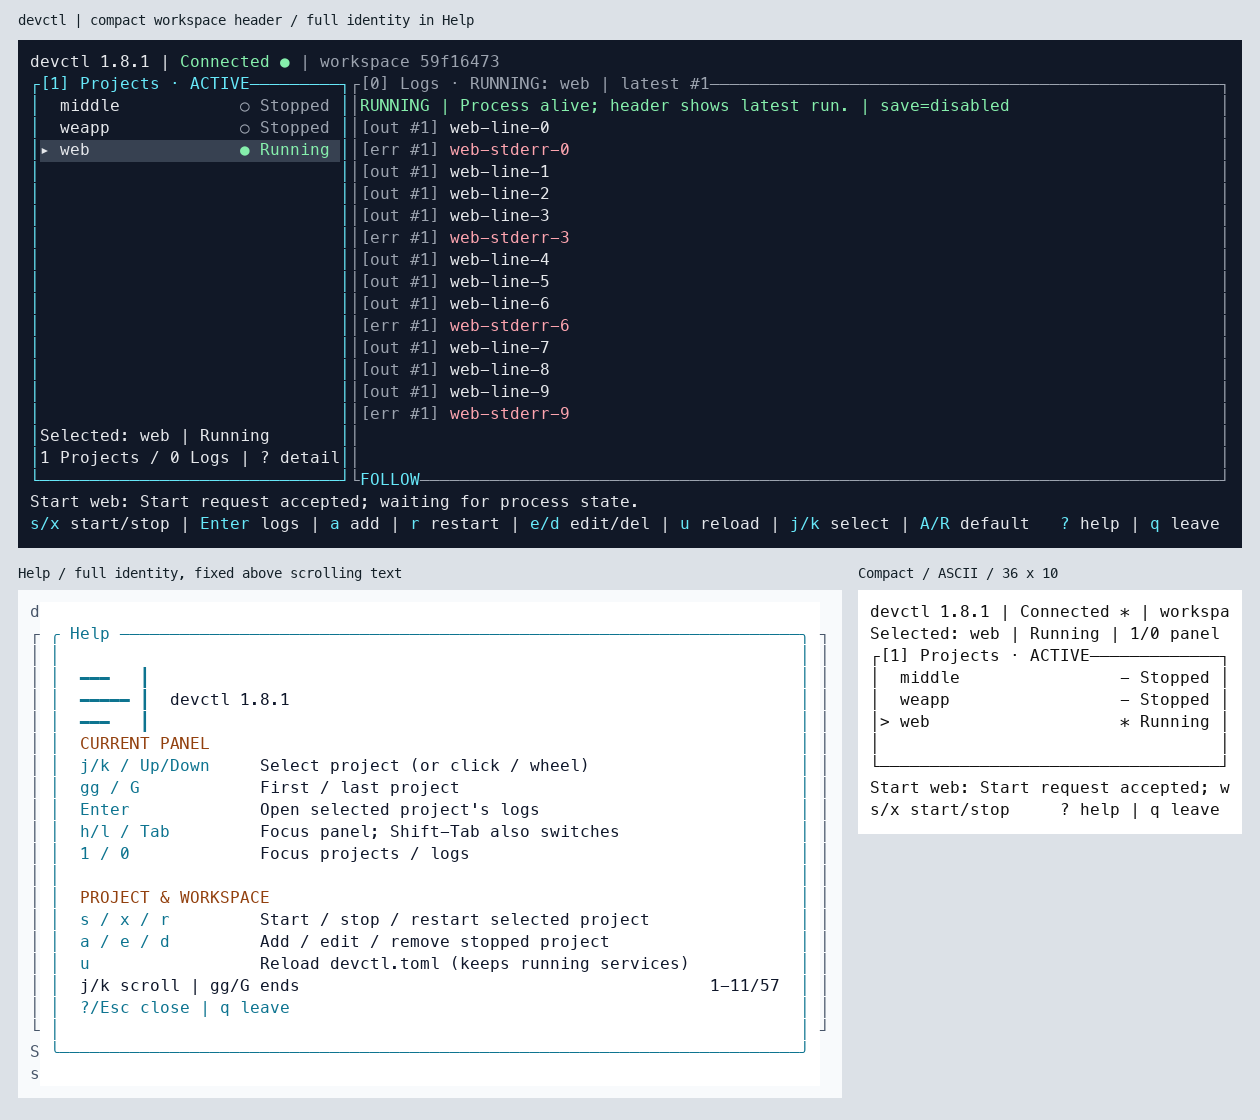
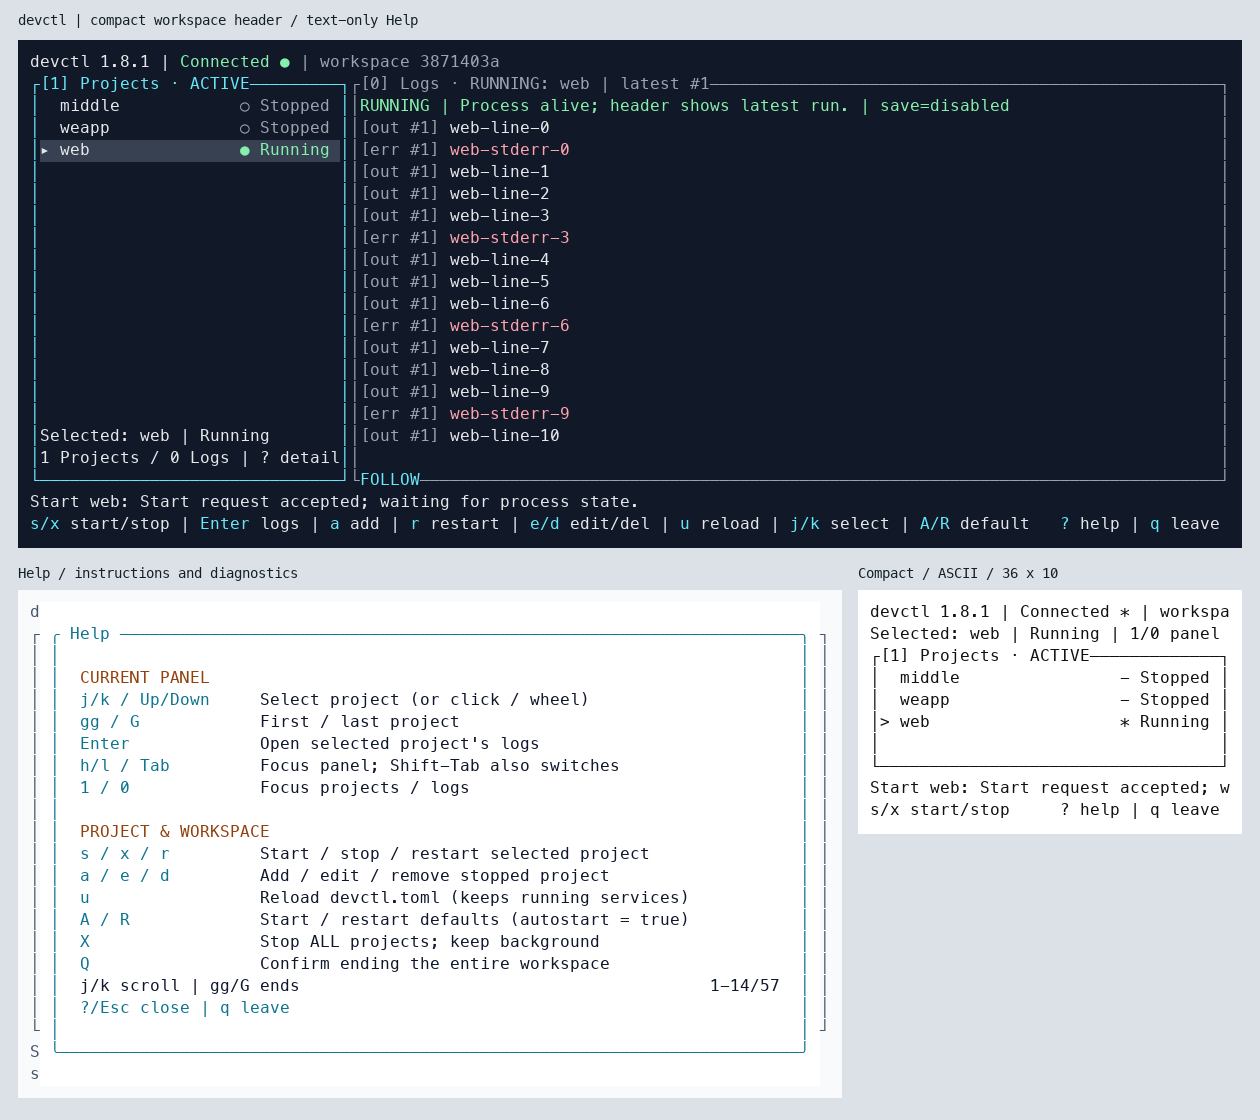
refactor(tui): keep graphical branding outside terminal interface

diff --git a/src/tui/view.rs b/src/tui/view.rs
@@ -7,10 +7,7 @@ use ratatui::{
 };
 use unicode_segmentation::UnicodeSegmentation;
 
-use super::{
-    app::{App, Focus, TextCell, TextPosition},
-    brand,
-};
+use super::app::{App, Focus, TextCell, TextPosition};
 use crate::{
     logs::{Record, Source},
     manager::ServiceState,
@@ -1437,38 +1434,22 @@ fn help_area(area: Rect, app: &App) -> Rect {
     let width = area.width.saturating_sub(4).min(80);
     let inner = help_block().inner(Rect::new(0, 0, width, area.height));
     let rows = wrapped(help_lines(app), inner.width).len();
-    // Borders, padding and footer occupy six rows; allow room for the full mark.
-    let height = rows
-        .saturating_add(6 + usize::from(brand::HEIGHT))
-        .min(usize::from(u16::MAX)) as u16;
+    // Borders, vertical padding and the two fixed footer rows occupy six rows.
+    let height = rows.saturating_add(6).min(usize::from(u16::MAX)) as u16;
     popup(area, width, height.min(area.height.saturating_sub(2)))
 }
 
-fn help_sections(inner: Rect) -> [Rect; 3] {
-    // The optional identity must leave room for readable help and its footer.
-    // Never reserve brand rows in the everyday project/log workspace.
-    let brand_height = if inner.width >= brand::WIDTH && inner.height >= 8 {
-        brand::HEIGHT
-    } else {
-        0
-    };
-    Layout::vertical([
-        Constraint::Length(brand_height),
-        Constraint::Min(0),
-        Constraint::Length(2),
-    ])
-    .areas(inner)
-}
-
 pub fn help_height(area: Rect, app: &App) -> u16 {
-    help_sections(help_block().inner(help_area(area, app)))[1]
+    help_block()
+        .inner(help_area(area, app))
         .height
+        .saturating_sub(2)
         .max(1)
 }
 
 pub fn help_max_scroll(area: Rect, app: &App) -> u16 {
     let inner = help_block().inner(help_area(area, app));
-    let height = usize::from(help_sections(inner)[1].height);
+    let height = usize::from(inner.height.saturating_sub(2));
     let count = wrapped(help_lines(app), inner.width).len();
     count.saturating_sub(height).min(usize::from(u16::MAX)) as u16
 }
@@ -1597,20 +1578,8 @@ fn overlay(frame: &mut Frame, app: &App) {
         let block = help_block();
         let inner = block.inner(area);
         frame.render_widget(block, area);
-        let [identity, body, footer] = help_sections(inner);
-        brand::render(frame, identity, app.appearance.ascii);
-        if identity.height > 0 {
-            frame.render_widget(
-                Paragraph::new(format!("devctl {}", env!("CARGO_PKG_VERSION")))
-                    .style(modal_style().add_modifier(Modifier::BOLD)),
-                Rect::new(
-                    identity.x + brand::WIDTH + 2,
-                    identity.y + 1,
-                    identity.width.saturating_sub(brand::WIDTH + 2),
-                    1,
-                ),
-            );
-        }
+        let [body, footer] =
+            Layout::vertical([Constraint::Min(0), Constraint::Length(2)]).areas(inner);
         let max = help_max_scroll(frame.area(), app);
         let scroll = app.help_scroll.min(max);
         let lines = wrapped(help_lines(app), body.width);
@@ -2002,7 +1971,7 @@ mod tests {
     }
 
     #[test]
-    fn full_brand_in_help_keeps_the_workspace_header_compact() {
+    fn text_only_workspace_and_help_preserve_compact_layout_and_navigation() {
         use super::super::appearance::Theme;
 
         for ascii in [false, true] {
@@ -2019,31 +1988,16 @@ mod tests {
                         app.help = false;
                         let text = draw(&app, width, height);
                         assert!(text.starts_with(concat!("devctl ", env!("CARGO_PKG_VERSION"))));
-                        assert!(!text.contains(brand::rows(ascii)[1]));
                         app.help = true;
-                        let inner = help_block().inner(help_area(area, &app));
-                        let [identity, _, _] = help_sections(inner);
                         for scroll in [0, help_max_scroll(area, &app)] {
                             app.help_scroll = scroll;
                             let text = draw(&app, width, height);
-                            for (offset, stroke) in brand::rows(ascii).into_iter().enumerate() {
-                                if identity.height > 0 {
-                                    assert_eq!(
-                                        text.chars()
-                                            .skip(
-                                                (usize::from(identity.y) + offset)
-                                                    * usize::from(width)
-                                                    + usize::from(identity.x),
-                                            )
-                                            .take(usize::from(brand::WIDTH))
-                                            .collect::<String>(),
-                                        stroke
-                                    );
-                                } else {
-                                    assert!(!text.contains(stroke), "{text}");
-                                }
-                            }
+                            assert!(!text.contains('━') && !text.contains('┃'));
+                            assert!(!text.contains("----- |"));
                             assert!(text.contains("?/Esc close | q leave"));
+                            if scroll == 0 {
+                                assert!(text.contains("CURRENT PANEL"));
+                            }
                         }
                     }
                 }
@@ -2080,19 +2034,19 @@ mod tests {
         let mut app = App::new();
         app.help = true;
         app.feedback = "HELP-TAIL".into();
-        let large = Rect::new(7, 3, 300, 80);
+        let large = Rect::new(7, 3, 300, 64);
         let popup = help_area(large, &app);
         assert_eq!(popup.width, 80);
         let inner_width = help_block().inner(popup).width;
         assert_eq!(
             usize::from(popup.height),
-            wrapped(help_lines(&app), inner_width).len() + 6 + usize::from(brand::HEIGHT)
+            wrapped(help_lines(&app), inner_width).len() + 6
         );
         assert!(popup.height < large.height - 2);
         assert_eq!(popup.x, large.x + (large.width - popup.width) / 2);
         assert_eq!(popup.y, large.y + (large.height - popup.height) / 2);
         assert_eq!(help_max_scroll(large, &app), 0);
-        let text = draw(&app, 300, 80);
+        let text = draw(&app, 300, 64);
         assert!(text.contains("CURRENT PANEL") && text.contains("HELP-TAIL"));
 
         for (width, height) in [(120, 30), (80, 12), (60, 16), (36, 10)] {
@@ -2106,7 +2060,7 @@ mod tests {
             assert!(text.contains("?/Esc close | q leave"));
         }
         // A stale scroll position must not hide content after enlarging the window.
-        let text = draw(&app, 300, 80);
+        let text = draw(&app, 300, 64);
         assert!(text.contains("CURRENT PANEL") && text.contains("HELP-TAIL"));
     }
 

diff --git a/tests/support/tui_pty.py b/tests/support/tui_pty.py
@@ -531,7 +531,6 @@ def appearance():
             if theme == 'mono':
                 options.update(NO_COLOR='1', DEVCTL_TUI_ASCII='1', DEVCTL_TUI_REDUCED_MOTION='1')
             ui = Tui(w, appearance=options)
-            mark = ['---   |', '----- |', '---   |'] if theme == 'mono' else ['━━━   ┃', '━━━━━ ┃', '━━━   ┃']
             assert ui.screen.text().startswith('devctl '), ui.screen.text()
             ui.choose('web')
             ui.wait('- Stopped' if theme == 'mono' else '○ Stopped')
@@ -546,7 +545,7 @@ def appearance():
             ui.wait(lambda text: 'V-LINE' not in text)
             ui.send(b'?')
             ui.wait('CURRENT PANEL')
-            assert ui.screen.text().count(mark[0]) == 2 and mark[1] in ui.screen.text(), ui.screen.text()
+            assert '━━━━━' not in ui.screen.text() and '----- |' not in ui.screen.text(), ui.screen.text()
             ui.send(b'\x1b')
             ui.wait(lambda text: ' Help ' not in text)
             ui.resize(60,18)

diff --git a/src/tui/mod.rs b/src/tui/mod.rs
@@ -1,6 +1,5 @@
 mod app;
 mod appearance;
-mod brand;
 mod mouse;
 mod onboarding;
 mod terminal;

diff --git a/docs/tasks.md b/docs/tasks.md
@@ -3,21 +3,19 @@
 Keep current work and necessary handoff here; Git retains history. Collaboration
 rules are in [AGENTS.md](../AGENTS.md).
 
-## Current: restore compact workspace header (U01 visual identity)
+## Current: graphical identity outside the TUI (U01 visual identity)
 
-The maintainer selected the service-line/control-rail identity with no abbreviated
-companion, then rejected the three-row main header as too intrusive. Restored the
-original text header: one row in wide layouts, two in compact layouts, with the
-original version/connection/workspace and selection/panel hints. Main-view log and
-project areas recover their original space; unusable windows show exit/resize
-guidance without decorative rows.
+The maintainer authorized keeping the complete service-line/control-rail mark in
+README/documentation and project identity, while removing decorative branding
+from the TUI, including Help. Removed the terminal brand renderer and its layout
+reservations. Help again dedicates its content area to instructions/diagnostics.
+The original compact main header, name/version/status, selection/navigation
+symbols and 36 × 10 minimum remain intact. No abbreviated logo is introduced.
 
-The complete mark now appears only in Help when room remains for readable content
-and its footer. It stays fixed while help text scrolls; smaller help dialogs omit
-the entire mark. ASCII/theme/NO_COLOR treatments retain all four strokes. Full
-SVG/PNG assets and README artwork are unchanged. The
-[brand usage rule](../assets/branding/README.md) owns this placement; docs and the
-updated [preview](../assets/branding/tui-preview.png) match the working build.
+Full SVG/PNG assets and both README artworks are unchanged. The
+[brand usage rule](../assets/branding/README.md) owns the placement; reference
+documents and the [updated preview](../assets/branding/tui-preview.png) match the
+text-only terminal build. No service behavior or new dependency is involved.
 
 Validation on native macOS:
 
@@ -26,9 +24,10 @@ Validation on native macOS:
 - `cargo test --locked -- --quiet`: passed, 334 tests (201 unit, 133 integration;
   includes 20 real-PTY TUI scenarios).
 - Appearance PTY checks cover the compact header in dark/light/terminal/monochrome
-  modes, 120-column, 60-column and 36 × 10 layouts, and the full mark inside Help.
-  Unit coverage verifies original header height, full Help mark before/after
-  scrolling, and whole-mark omission in small Help dialogs. Existing lifecycle,
+  modes, 120-column, 60-column and 36 × 10 layouts, and logo-free Help.
+  Unit coverage verifies original header height, absence of the decorative mark,
+  Help navigation/footer and beginning/end content across themes and sizes.
+  Existing lifecycle,
   log reading/copying, mouse selection, project edit/remove/reload, help diagnostic
   reachability and terminal restoration scenarios pass.
 - Ran isolated dark/light/ASCII-monochrome main views and light Help. Reconstructed

diff --git a/assets/branding/README.md b/assets/branding/README.md
@@ -31,26 +31,16 @@ including the longer middle line and all gaps. Scale proportionally. Do not crop
 remove strokes, replace it with punctuation, or use a one-row abbreviation.
 Color may follow the background/theme; the four-stroke structure is invariant.
 
+Use the graphical identity in READMEs, documentation, project avatars and release
+materials. The TUI, including Help, uses text rather than decorative branding.
+It retains the product name, version, connection/status information and functional
+navigation/state symbols. No graphic or abbreviated logo is inserted into it.
+
 The everyday TUI keeps its original compact text header: one row in the wide
-layout and two in the compact layout. No brand rows are reserved in the project/
-log workspace, and no abbreviated logo is inserted into the title.
-
-The Help dialog shows the complete mark in seven columns and three fixed rows
-when enough space remains for readable help and its footer. It does not scroll
-with the help text. Smaller dialogs omit the entire mark rather than clipping it.
-Common line-drawing characters provide the normal treatment; ASCII mode changes
-only stroke characters, preserving every row and its length/spacing:
-
-```text
----   |
------ |
----   |
-```
-
-This is the same complete cell geometry, not an abbreviated companion. It needs
-no image protocol, new dependency, Nerd Font, or special terminal configuration.
-Themes and `NO_COLOR` preserve its structure. The regular 36 × 10 minimum remains
-supported. Unusable windows prioritize the original resize/exit guidance.
+layout and two in the compact layout. Help reserves its space for instructions
+and diagnostics. The regular 36 × 10 minimum remains supported; unusable windows
+prioritize resize/exit guidance. Neither special fonts nor terminal graphics
+protocols are needed for branding.
 
 The English/Chinese READMEs display the same full vector geometry, with background-
 appropriate color. Existing CLI help, status and log text keep their text formats;
@@ -58,7 +48,7 @@ the brand integration does not insert decorative output into data/diagnostics.
 
 ## Terminal preview
 
-[Preview](tui-preview.png) shows the compact main header and full identity in Help,
+[Preview](tui-preview.png) shows the compact main header and text-only Help,
 including light and monochrome/ASCII treatments. It reconstructs actual PTY
 characters and emitted colors with Menlo; it is not a native terminal-window
 screenshot. The capture used

diff --git a/docs/requirements.md b/docs/requirements.md
@@ -64,11 +64,10 @@ success feedback expires. Actual WSL appearance remains a user acceptance step.
 On 2026-10-19 the maintainer selected the service-line/control-rail identity and
 required complete rendering wherever a logo is used (U01). The
 [brand usage rule](../assets/branding/README.md#usage) owns the shape and rendering
-constraints. This authorizes asset and TUI integration, not publication or
-acceptance of physical-terminal rendering on every platform.
-The confirmed layout keeps the original compact workspace header; place the
-complete identity in Help only when space permits, without substituting an
-abbreviated symbol or adding brand rows to the main workspace.
+constraints. The confirmed placement is documentation and project identity,
+without authorizing publication. The TUI keeps the original compact workspace
+header and text-only Help, with no decorative or abbreviated logo. Functional
+status/selection symbols remain part of the existing U01 interface.
 
 ## Initial scope and acceptance
 

diff --git a/docs/interaction.md b/docs/interaction.md
@@ -185,9 +185,9 @@ verify the actual clipboard.
 The header shows client version, connection state, and supervisor identity in
 one row for wide layouts. Compact layouts retain the original second row for the
 selected project and panel hints. The 36 × 10 minimum remains supported.
-The [complete devctl mark](../assets/branding/README.md) appears only in Help when
-space permits, fixed above its scrollable content. It never reserves rows in the
-main project/log view; smaller help dialogs omit it as a whole.
+The TUI, including Help, uses no decorative logo or abbreviated branding symbol.
+Help reserves its scrollable content area for instructions and diagnostics; the
+[graphical identity](../assets/branding/README.md) is used in documentation.
 Projects show `Stopped`, `Starting`, `Running`, `Stopping`, `Failed`, or disconnected
 `Unknown`.
 Log state is displayed separately from `FOLLOW`/`READ` and saving status. Stopped

diff --git a/README.md b/README.md
@@ -196,8 +196,8 @@ for selection modes, search boundaries, pagination, and failure feedback.
 ## Documentation
 
 - [Logo/icon assets and usage](assets/branding/README.md): the complete service-line
-  and control-rail mark; Help displays it when space permits, with no extra rows
-  in the everyday workspace header.
+  and control-rail mark for documentation and project identity. The TUI uses a
+  compact text header and text-only Help.
 - [Installation, updates, rollback, and source builds](docs/install.md)
 - [Configuration, CLI, TUI, and log reference](docs/interaction.md)
 - [WSL setup and hands-on verification](docs/wsl.md)

diff --git a/CHANGELOG.md b/CHANGELOG.md
@@ -5,9 +5,9 @@ User-facing changes are grouped by released version. Download artifacts from
 
 ## Unreleased
 
-- Add the selected devctl identity to both READMEs and to Help when space permits,
-  preserving the complete mark in themes, monochrome output and ASCII mode.
-  Keep the original compact workspace header. Include transparent SVG/PNG assets.
+- Add the selected devctl identity to both READMEs, with complete transparent
+  SVG/PNG assets. Keep the TUI header compact and Help text-only; graphical
+  branding is used outside the terminal interface.
 
 ## 1.8.1 — 2026-10-19
 
